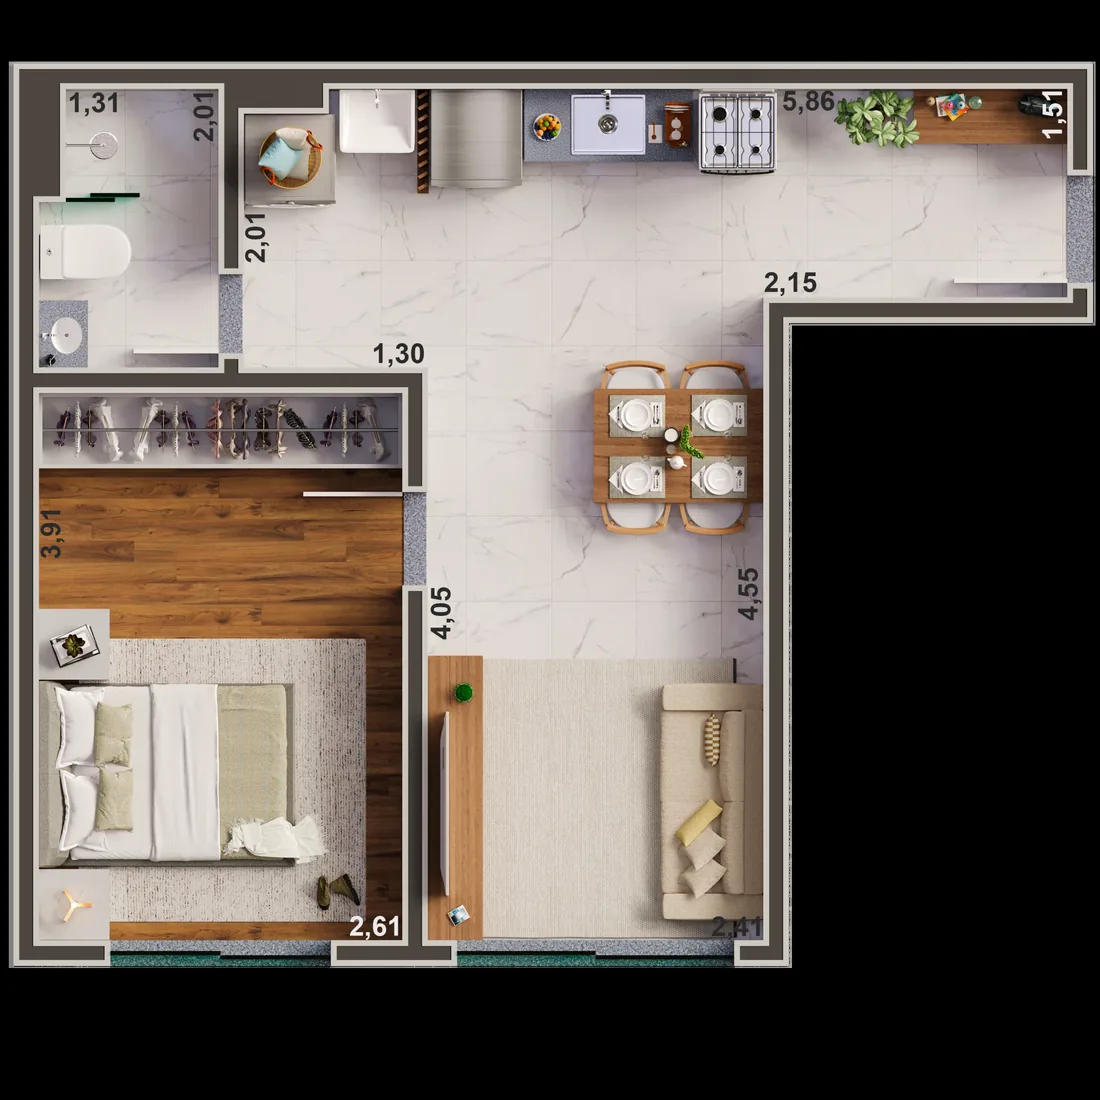
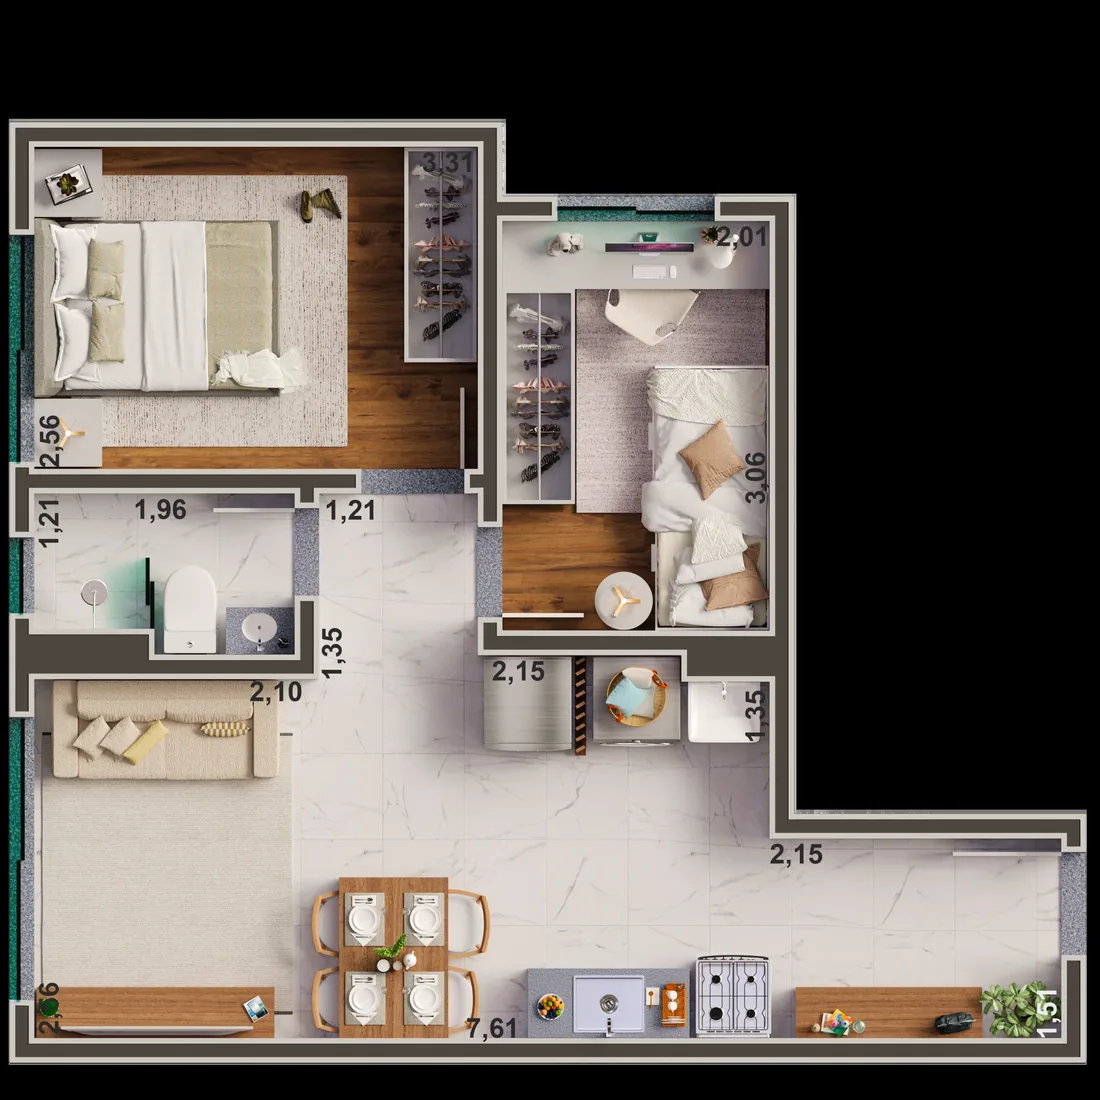
Park Jardim do Sol: corrige plantas (eram 2 quartos, não 1) (#59)
A imagem "Planta de meio" era, na verdade, a planta de 1 quarto (em L).
Troca as duas plantas pelas imagens corretas do apartamento tipo de
2 quartos enviadas pela INC, com legendas neutras (apartamento tipo /
com suíte) e a explicação de meio (~39,5 m²) e ponta (~41,2 m²) no texto.

Claude-Session: https://claude.ai/code/session_01Kd3qDbsmwdXS123SwVAvNm

diff --git a/blog/park-jardim-do-sol-novo-mundo-uberlandia.html b/blog/park-jardim-do-sol-novo-mundo-uberlandia.html
@@ -231,10 +231,10 @@ details p{margin:12px 0 4px;font-size:1rem}
 
 <h2 id="plantas">As <em>plantas</em> de 2 quartos</h2>
 <div class="plantas">
-  <figure><img src="/blog/images/park-jardim-do-sol-planta-essencial.webp" alt="Planta do apartamento de 2 quartos de meio do Park Jardim do Sol" loading="lazy" width="1100" height="1100"><figcaption>Planta de meio <span>2 quartos · cerca de 39,5 m²</span></figcaption></figure>
-  <figure><img src="/blog/images/park-jardim-do-sol-planta-conforto.webp" alt="Planta do apartamento de 2 quartos de ponta do Park Jardim do Sol" loading="lazy" width="1100" height="1100"><figcaption>Planta de ponta <span>2 quartos · cerca de 41,2 m²</span></figcaption></figure>
+  <figure><img src="/blog/images/park-jardim-do-sol-planta-essencial.webp" alt="Planta de apartamento de 2 quartos do Park Jardim do Sol, Novo Mundo, Uberlândia" loading="lazy" width="1100" height="1100"><figcaption>Apartamento tipo <span>2 quartos</span></figcaption></figure>
+  <figure><img src="/blog/images/park-jardim-do-sol-planta-conforto.webp" alt="Planta de apartamento de 2 quartos com suíte do Park Jardim do Sol, Novo Mundo, Uberlândia" loading="lazy" width="1100" height="1100"><figcaption>Apartamento tipo <span>2 quartos, com suíte</span></figcaption></figure>
 </div>
-<p>A diferença de menos de 2 m² entre as duas parece pequena, mas muda a circulação, o tamanho da sala e da cozinha. Na hora de escolher, eu te ajudo a enxergar qual faz mais sentido pra sua rotina e pra sua mobília.</p>
+<p>As duas plantas são de 2 quartos, nas tipologias de meio (cerca de 39,5 m²) e de ponta (cerca de 41,2 m²). A diferença de menos de 2 m² parece pequena, mas muda a circulação, o tamanho da sala e da cozinha. Na hora de escolher, eu te ajudo a enxergar qual faz mais sentido pra sua rotina e pra sua mobília.</p>
 
 <h2>Onde <em>fica</em></h2>
 <p>O Park Jardim do Sol está na <strong>Rua Antônio Cândido</strong>, no <strong>Novo Mundo</strong>, em Uberlândia.</p>
